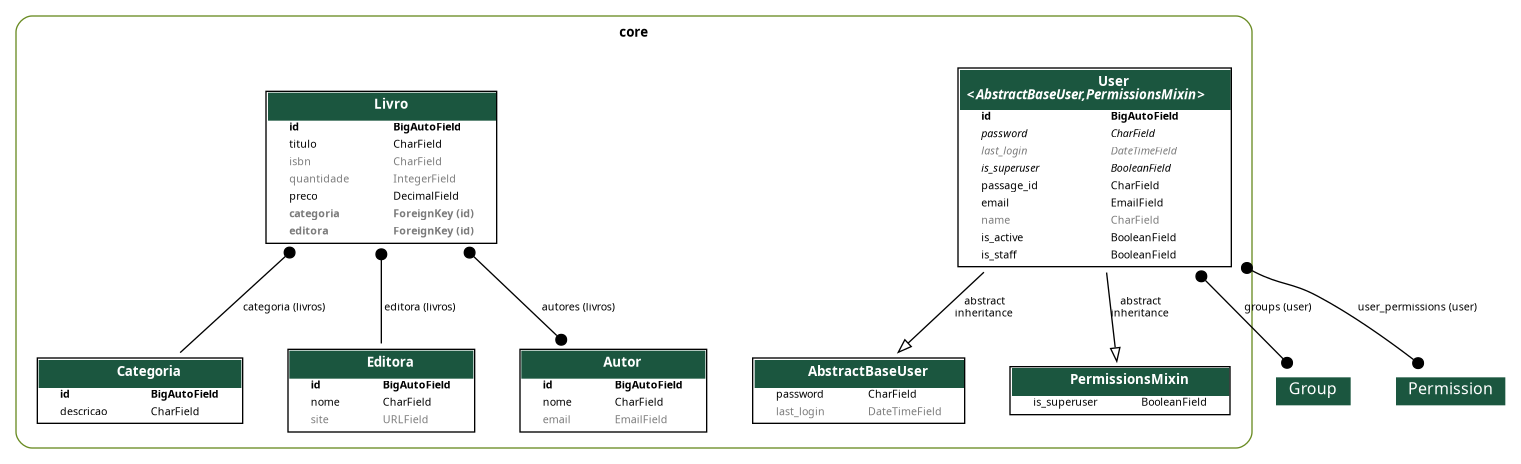
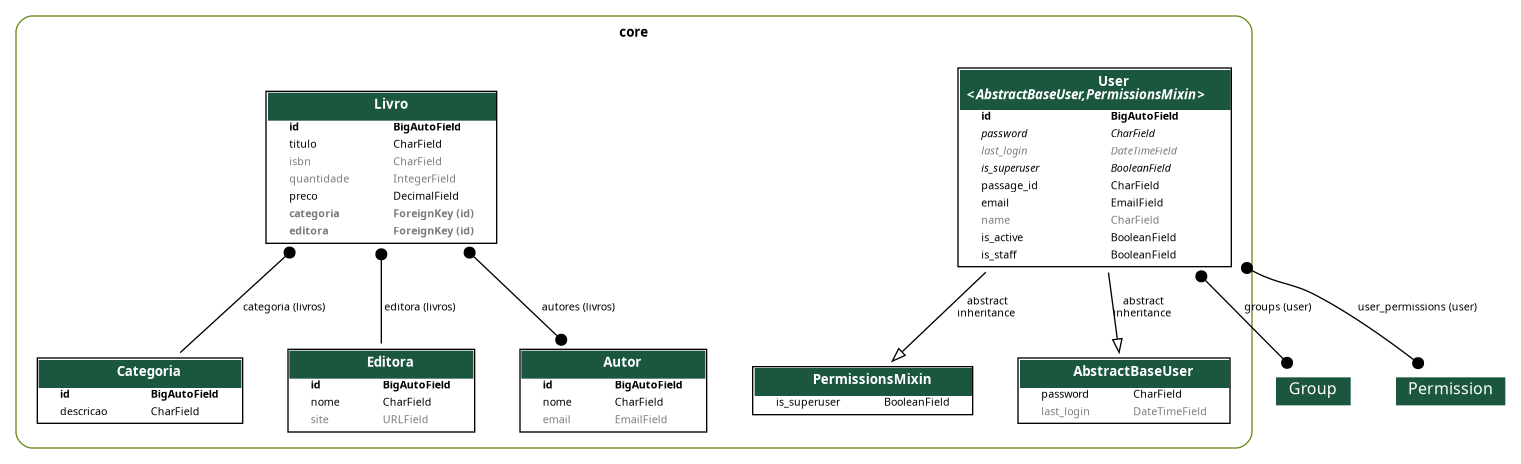
feat: adicionar opções de modelo para a entidade Autor e atualizar serializers e views de Livro

Changed region(s): [[0.4944, 0.694, 0.8034, 0.9353], [0.618, 0.6034, 0.6798, 0.694], [0.7107, 0.6336, 0.7725, 0.694]]

diff --git a/core/views/livro.py b/core/views/livro.py
@@ -1,8 +1,15 @@
 from rest_framework.viewsets import ModelViewSet
 
 from core.models import Livro
-from core.serializers import LivroSerializer
+from core.serializers import LivroSerializer, LivroListSerializer, LivroRetrieveSerializer
 
 class LivroViewSet(ModelViewSet):
     queryset = Livro.objects.all()
     serializer_class = LivroSerializer
+
+    def get_serializer_class(self):
+        if self.action == 'list':
+            return LivroListSerializer
+        elif self.action == 'retrieve':
+            return LivroRetrieveSerializer
+        return LivroSerializer

diff --git a/core/serializers/livro.py b/core/serializers/livro.py
@@ -1,8 +1,19 @@
-from rest_framework import serializers
+from rest_framework.serializers import ModelSerializer
 from core.models import Livro
 
-
-class LivroSerializer(serializers.ModelSerializer):
+class LivroSerializer(ModelSerializer):
     class Meta:
         model = Livro
         fields = '__all__'
+
+
+class LivroListSerializer(ModelSerializer):
+    class Meta:
+        model = Livro
+        fields = ('id', 'titulo', 'preco')
+
+class LivroRetrieveSerializer(ModelSerializer):
+    class Meta:
+        model = Livro
+        fields = '__all__'
+        depth = 1

diff --git a/core/migrations/0011_alter_autor_options.py b/core/migrations/0011_alter_autor_options.py
@@ -1,0 +1,17 @@
+# Generated by Django 5.1.7 on 2026-03-10 17:30
+
+from django.db import migrations
+
+
+class Migration(migrations.Migration):
+
+    dependencies = [
+        ('core', '0010_livro_autores'),
+    ]
+
+    operations = [
+        migrations.AlterModelOptions(
+            name='autor',
+            options={'verbose_name': 'Autor', 'verbose_name_plural': 'Autores'},
+        ),
+    ]

diff --git a/core/serializers/editora.py b/core/serializers/editora.py
@@ -1,8 +1,8 @@
-from rest_framework import serializers
+from rest_framework.serializers import ModelSerializer
 from core.models import Editora
 
 
-class EditoraSerializer(serializers.ModelSerializer):
+class EditoraSerializer(ModelSerializer):
     class Meta:
         model = Editora
         fields = '__all__'

diff --git a/core/models/autor.py b/core/models/autor.py
@@ -1,3 +1,5 @@
+from tabnanny import verbose
+
 from django.db import models
 
 class Autor(models.Model):
@@ -6,3 +8,7 @@ class Autor(models.Model):
 
     def __str__(self):
         return self.nome
+    
+    class Meta:
+        verbose_name = 'Autor'
+        verbose_name_plural = 'Autores'

diff --git a/core/serializers/__init__.py b/core/serializers/__init__.py
@@ -2,4 +2,4 @@ from .user import UserSerializer
 from .categoria import CategoriaSerializer
 from .editora import EditoraSerializer
 from .autor import AutorSerializer
-from .livro import LivroSerializer
+from .livro import LivroListSerializer, LivroRetrieveSerializer, LivroSerializer

diff --git a/core/models/livro.py b/core/models/livro.py
@@ -13,4 +13,4 @@ class Livro(models.Model):
     autores = models.ManyToManyField(Autor, related_name='livros', blank=True)
 
     def __str__(self):
-        return f'({self.id}) {self.titulo} ({self.quantidade})'
+        return f'({self.id} {self.titulo} {self.quantidade})'

diff --git a/core/serializers/autor.py b/core/serializers/autor.py
@@ -1,5 +1,4 @@
 from rest_framework.serializers import ModelSerializer
-
 from core.models import Autor
 
 class AutorSerializer(ModelSerializer):
